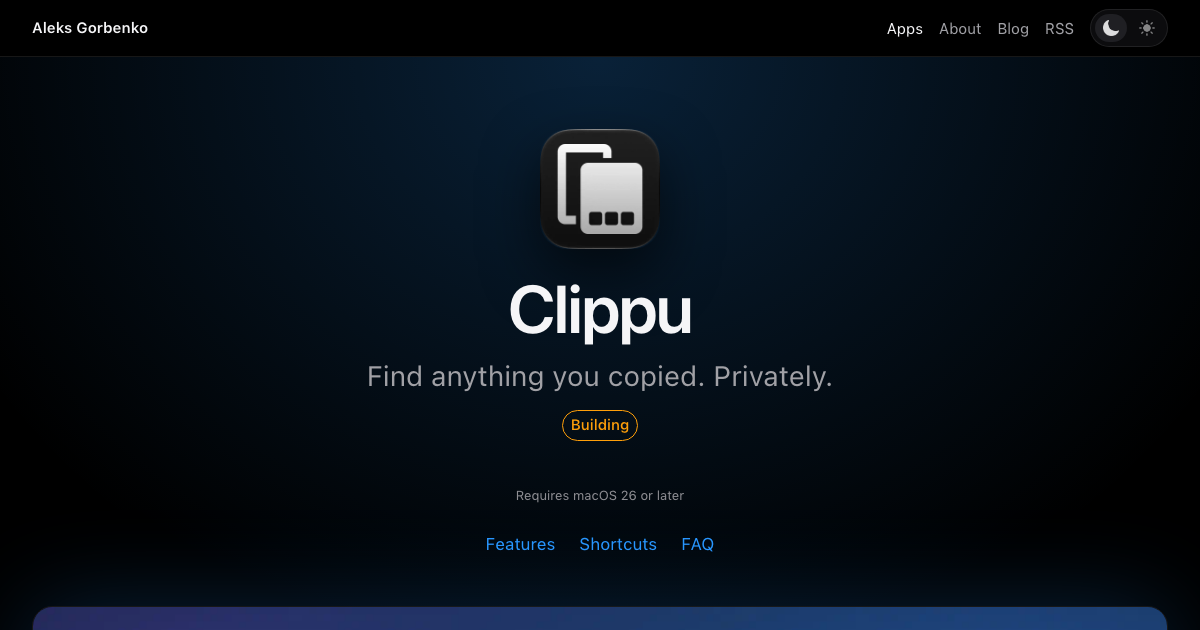
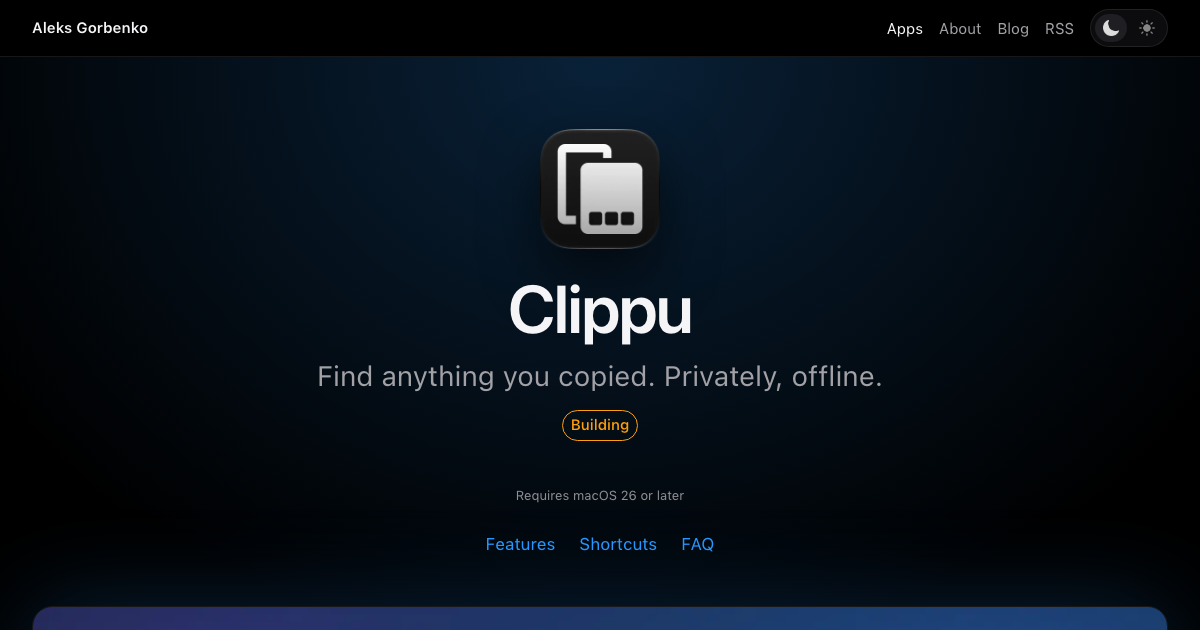
feat(clippu): Text in Screenshots feature, Appearance FAQ, offline tagline
Screenshot tests mask the live countdown, so Bukku baselines are stable again.

Changed region(s): [[0.2467, 0.573, 0.74, 0.6333]]

diff --git a/tests/site.spec.ts b/tests/site.spec.ts
@@ -104,7 +104,7 @@ for (const path of PAGES) {
     test("matches the approved screenshot", async ({ page }) => {
       await open(page, path);
       const name = `${path.replaceAll("/", "-").replace(/^-|-$/g, "") || "home"}.png`;
-      await expect(page).toHaveScreenshot(name);
+      await expect(page).toHaveScreenshot(name, { mask: [page.locator("[data-countdown]")] });
     });
   });
 }

diff --git a/content/apps/clippu/_index.md b/content/apps/clippu/_index.md
@@ -4,7 +4,7 @@ draft = false
 weight = 2
 status = "building"
 category = "Clipboard manager"
-tagline = "Find anything you copied. Privately."
+tagline = "Find anything you copied. Privately, offline."
 description = "Clippu keeps the text, links, images and files you copy on your Mac and finds any of them as you type. No network, no account."
 keywords = ["macOS", "clipboard", "clipboard manager", "clipboard history", "paste", "productivity", "swift"]
 icon = "images/icon_1024x1024.png"
@@ -49,11 +49,18 @@ image = "images/website-paste-messages_1440x1080.webp"
 alt = "A Messages conversation with the Clippu bar open and a photo card ready to paste"
 [[features]]
 title = "Search Everything"
-summary = "Start typing to search every item, including the text inside images."
-body = "Text in images is recognised on your Mac, so a screenshot of an error message turns up when you search for it."
+summary = "Start typing to search every item you copied."
+body = "Results update with every key you press, and the best match is ready to paste."
 
 image = "images/website-paste-browser_1440x1080.webp"
 alt = "A support form in Safari with the order number field selected and a search for order in the Clippu bar"
+[[features]]
+title = "Text in Screenshots"
+summary = "Search finds words inside your screenshots and copied images."
+body = "Clippu reads the text in every image on your Mac, so a screenshot of an error turns up when you search for the error. Nothing is sent anywhere to do it."
+image = "images/website-ocr_1440x1080.webp"
+alt = "A search for declined finding a screenshot of a payment error, with the matching words highlighted"
+
 [[features]]
 title = "Search Scopes"
 summary = "Narrow the search to one kind, one file type or one app."
@@ -148,6 +155,10 @@ answer = "No. Password managers mark the passwords you copy as confidential, and
 [[faq]]
 question = "How long does Clippu keep my history?"
 answer = "Until it reaches the limits you set in Settings: a maximum age and a maximum storage size. The oldest items go first."
+
+[[faq]]
+question = "Can I change how it looks?"
+answer = "Yes. In Settings › Appearance choose Light, Dark or Auto, and put the bar at the bottom or the top of the screen."
 
 [[faq]]
 question = "Does it show a Dock icon?"
